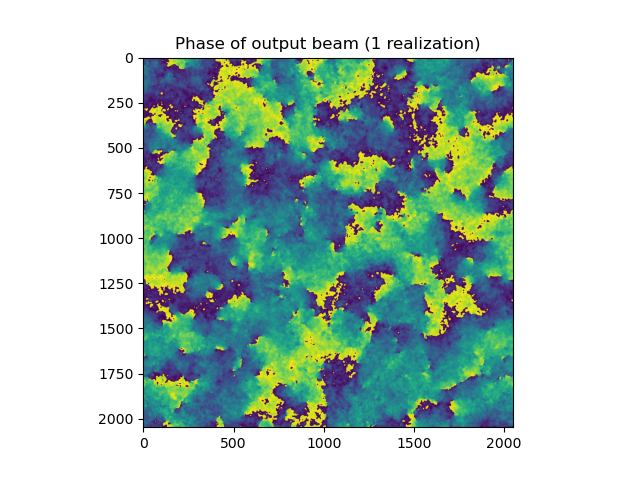
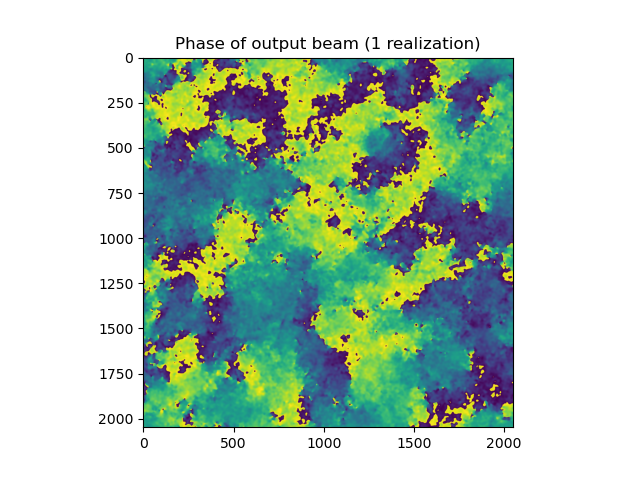
implemented measurement of kinetic energy

diff --git a/raul/thermalization/img/trial 11/thermalization_11.py b/raul/thermalization/img/trial 11/thermalization_11.py
@@ -9,17 +9,17 @@ PRECISION_REAL = np.float32
 
 
 N = 2048
-n2 = -6e-10
+n2 = -3e-10
 k_max = 2*np.pi*3e3 # maximum k vector of the beam profile
 #waist = 2.23e-3
 window = 12 * 2*np.pi/k_max
 puiss = 1.0
 Isat = 1e8  # saturation intensity in W/m^2
-L = 400e-3
+L = 1600e-3
 alpha = 2
 
 # averaging over several realizations
-N_real = 100
+N_real = 40
 
 def main():
     simu = NLSE(
@@ -34,7 +34,7 @@ def main():
         Isat=Isat,
         backend="GPU",
     )
-    simu.delta_z = 0.1e-4
+    simu.delta_z = 0.2e-4
 
     # parameters for callback
     N_samples = 10
@@ -123,12 +123,6 @@ def main():
     norm_state = norm_state/norm_state[0]
     fft_average = fft_average/N_real
 
-    sum_n_k = np.sum(radial_mean_fft,1)
-    kin_energy = np.sum(radial_mean_fft*k_vec**2,1)/sum_n_k
-
-    #normalize to the norm of beam
-    radial_mean_fft = np.transpose(np.transpose(radial_mean_fft)/norm_state)
-
     #k_r = np.arange(len(nr))*k_step
     k_max_plot = 200*k_max
     plot_index = int(k_max_plot/k_step)
@@ -148,7 +142,7 @@ def main():
     plt.loglog(k_vec[in_min:in_max],1e24*(k_vec[in_min:in_max])**exponent,linestyle='--',label = r'1/k$^2$')
     plt.legend(loc = 'right', fontsize = 'small')
     fft_max = max(radial_mean_fft[0])
-    plt.ylim([1e-6*fft_max,2*fft_max])
+    plt.ylim([1e-7*fft_max,2*fft_max])
     plt.title("n(k) versus k")
     plt.ylabel("n(k)")
     plt.xlabel("k/(2$\pi$) (m$^{-1}$)")
@@ -177,7 +171,7 @@ def main():
     plt.figure()
     plt.imshow(np.angle(E_samples[N_samples]))
     plt.title("Phase of output beam (1 realization)")
-    plt.savefig("img/phase_output_beam.png")
+    plt.savefig("img/output_beam_phase.png")
     
     plt.figure()
     E_out_fft = E_fft[N_samples]
@@ -198,16 +192,8 @@ def main():
     plt.plot(z_samples,norm_state,label = "State norm")
     plt.plot(z_samples,norm_state[0]*np.exp(-alpha*z_samples),label = r'$\text{e}^{-\alpha z}')
     plt.legend()
-    plt.xlabel("z(m)")
     plt.title("State norm")
     plt.savefig("img/state_norm.png")
-
-    plt.figure()
-    plt.plot(z_samples,kin_energy,label = "")
-    plt.legend()
-    plt.title("Average kinetic energy (arb. units)")
-    plt.xlabel("z(m)")
-    plt.savefig("img/kinetic_energy.png")
 
 if __name__ == "__main__":
     main()
